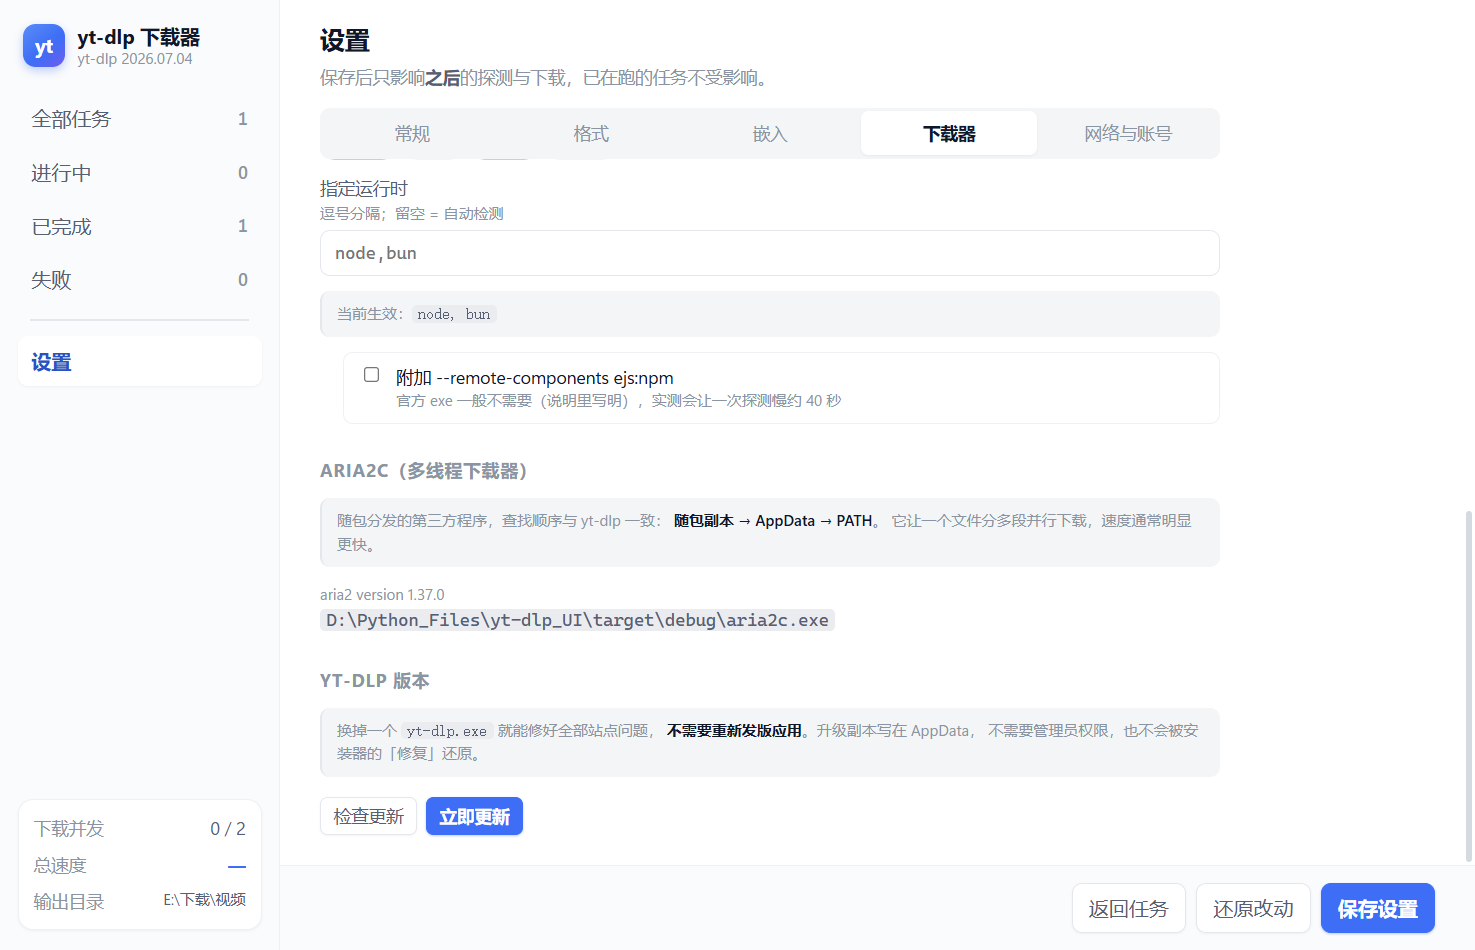
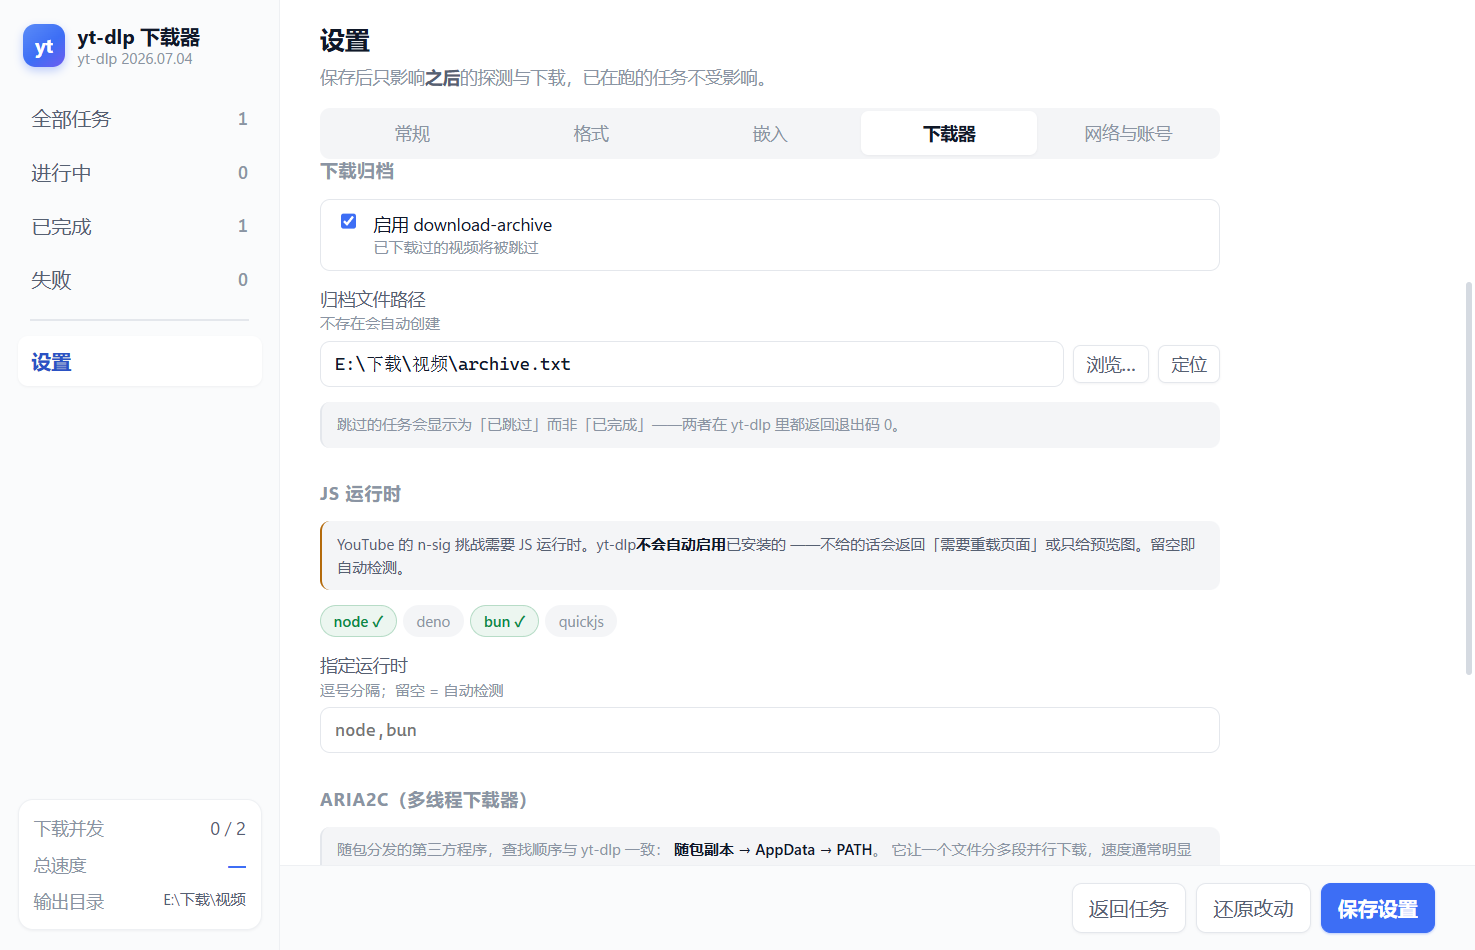
JS 运行时：去掉「当前生效」与「附加 --remote-components」
「当前生效：node」那行是纯冗余——输入框为空时占位符就是检测结果，非空时输入框
本身就是生效值，上面的状态条另有 ✓ 标记，同一件事说了三遍。

「附加 --remote-components ejs:npm」勾选框删掉：随包的官方 exe 自带组件
（帮助文本写明 currently not needed if you are using an official executable），
勾上实测只让一次探测多花 40 秒，没有理由占界面。

界面上保留检测状态条（哪个装了、路径是什么）与「指定运行时」输入框。

`jsRemoteComponents` 从 default_settings / types.ts / mock.ts 移除，所以设置页
不会再冒出这个勾选框；但 runner::js_of() 仍然读它——真遇到官方组件失效时，
改 config.json 写 true 就能开，等于留了个不占界面的逃生门。新增测试同时钉住
「它不在默认设置里」和「手工写进去的值会被保留」两点（merge_defaults 只补键
不删键，前端 deepClone 是整对象 JSON 往返，所以这个手工键能活到保存之后）。

core 140 + shell 65 = 205 测试全绿；vue-tsc 与 vite build 通过。
重录 docs/screenshots/settings-downloader.png。

diff --git a/src/components/SettingsPanel.vue b/src/components/SettingsPanel.vue
@@ -197,20 +197,6 @@ async function testBrowser() {
  */
 const jsInfo = ref<JsRuntimeInfo | null>(null)
 
-/** 实际会传给 yt-dlp 的运行时列表（留空则用检测结果）。 */
-const effectiveJs = computed(() => {
-  // 后端会补齐缺失键（lib.rs normalize_settings），但老配置 / mock 数据
-  // 仍可能没有这个字段——这里不兜住的话 `undefined.trim()` 会让整个面板白屏。
-  const manual = (s.jsRuntime ?? '').trim()
-  if (manual) {
-    return manual
-      .split(',')
-      .map((x) => x.trim())
-      .filter(Boolean)
-  }
-  return jsInfo.value?.detected ?? []
-})
-
 async function loadJsRuntimes() {
   try {
     jsInfo.value = await api.detectJsRuntimes()
@@ -914,16 +900,6 @@ const templateWarning = computed(() => {
               class="mono"
               :placeholder="(jsInfo?.detected ?? []).join(',') || '（未检测到）'"
             />
-          </label>
-          <p class="note">
-            当前生效：<code>{{ effectiveJs.join(', ') || '（无 —— YouTube 可能拿不到真实格式）' }}</code>
-          </p>
-          <label class="check sub">
-            <input v-model="s.jsRemoteComponents" type="checkbox" />
-            <span>
-              附加 --remote-components ejs:npm
-              <em>官方 exe 一般不需要（说明里写明），实测会让一次探测慢约 40 秒</em>
-            </span>
           </label>
 
           <h3>aria2c（多线程下载器）</h3>

diff --git a/src/types.ts b/src/types.ts
@@ -215,8 +215,6 @@ export interface Settings {
    * n-sig 挑战需要它——不给就会返回「需要重载页面」或只给 storyboard。
    */
   jsRuntime: string
-  /** 附加 `--remote-components ejs:npm`。官方 exe 一般不需要，且实测会慢 40 秒。 */
-  jsRemoteComponents: boolean
 }
 
 /** JS 运行时检测结果。 */

diff --git a/src/mock.ts b/src/mock.ts
@@ -242,5 +242,4 @@ export const defaultSettings: Settings = {
   limitRate: '',
   filenameTemplate: '%(title).150B [%(id)s].%(ext)s',
   jsRuntime: '',
-  jsRemoteComponents: false,
 }

diff --git a/src-tauri/src/lib.rs b/src-tauri/src/lib.rs
@@ -59,9 +59,9 @@ fn default_settings() -> Value {
         "filenameTemplate": "%(title).150B [%(id)s].%(ext)s",
         // JS 运行时：留空表示自动检测。**不是可选优化**——
         // 不给的话 YouTube 会返回「需要重载页面」或只给 storyboard。
-        "jsRuntime": "",
-        // --remote-components 一般不需要（官方 exe 自带），且实测慢 40 秒
-        "jsRemoteComponents": false
+        // 注意这里**没有** `jsRemoteComponents`：界面上已经不提供那个开关，
+        // 但 `runner::js_of` 仍然读它，好让需要的人改 config.json 打开。
+        "jsRuntime": ""
     })
 }
 
@@ -941,13 +941,23 @@ mod tests {
     /// 这个测试锁住「缺失键必须被补齐」。
     #[test]
     fn merge_defaults_fills_missing_keys() {
-        let defaults = json!({ "a": "", "jsRuntime": "", "jsRemoteComponents": false });
+        let defaults = json!({ "a": "", "jsRuntime": "" });
         let stored = json!({ "a": "keep" });
         let merged = merge_defaults(defaults, stored);
 
         assert_eq!(merged["a"], json!("keep"));
         assert_eq!(merged["jsRuntime"], json!(""));
-        assert_eq!(merged["jsRemoteComponents"], json!(false));
+    }
+
+    /// 界面不再暴露 `jsRemoteComponents`，但它**仍是从 config.json 可开的逃生门**：
+    /// 一旦它回到 `default_settings`，设置页就会重新显示一个没人改的勾选框。
+    #[test]
+    fn remote_components_is_not_a_default_setting() {
+        let s = normalize_settings(json!({}));
+        assert!(s.get("jsRemoteComponents").is_none(), "实际: {s}");
+        // 手工写进去的值必须被保留，否则逃生门形同虚设。
+        let s = normalize_settings(json!({ "jsRemoteComponents": true }));
+        assert_eq!(s["jsRemoteComponents"], json!(true));
     }
 
     #[test]

diff --git a/src-tauri/src/runner.rs b/src-tauri/src/runner.rs
@@ -549,6 +549,9 @@ pub fn js_of(settings: &Value) -> JsRuntimeOptions {
             .collect()
     };
 
+    // 界面**不再暴露**这个开关（官方 exe 自带组件，实测它只会让一次探测多花 40 秒），
+    // 但保留读取：需要的人可以在 config.json 里写 `"jsRemoteComponents": true`。
+    // 它不在 `default_settings` 里，所以设置页不会因此多出一个勾选框。
     let remote = settings
         .get("jsRemoteComponents")
         .and_then(|v| v.as_bool())

diff --git a/DESIGN.md b/DESIGN.md
@@ -513,9 +513,20 @@ YouTube 的 n-sig / player 挑战要用 JS 解。`--no-js-runtimes` 的帮助文
 探测 `node / deno / bun / quickjs`，`runner::js_of()` 统一给探测与下载两处取值。
 设置为空即自动检测——用户不该为了一个「不给就下不了」的必需参数去手工配置。
 
-**`--remote-components ejs:npm` 默认关闭**：官方可执行文件自带组件，
-帮助文本写着 "currently not needed if you are using an official executable"，
-而实测要多花 40 秒。设置页保留为可选开关。
+设置页只留三样：**候选运行时状态条**（哪个装了、路径是什么，纯诊断）、
+**「指定运行时」输入框**（留空即自动检测，给极少数要手工指定的人）、
+以及上面那段说明。原先还有两样，都已删掉：
+
+| 删掉的 | 为什么 |
+|---|---|
+| **「当前生效：node」那行** | 纯冗余。输入框为空时占位符就是检测结果，非空时输入框本身就是生效值；状态条另有 ✓ 标记 |
+| **「附加 `--remote-components ejs:npm`」勾选框** | 官方 exe 自带组件（帮助文本写明 "currently not needed if you are using an official executable"），勾上只多花 40 秒。没有理由让它在界面上占一格 |
+
+**`--remote-components ejs:npm` 的逃生门**：后端 `js_of()` **仍然读**
+`jsRemoteComponents`，只是它不在 `default_settings()` 里，所以设置页不会再出现
+那个勾选框。真遇到「官方组件失效」的情况，改 `config.json` 写
+`"jsRemoteComponents": true` 即可（`merge_defaults` 只补键不删键，
+前端 `deepClone` 是整对象 JSON 往返，这个手工键会一路带到保存后）。
 
 > **踩坑记录**：接线时新增了 `jsRuntime` / `jsRemoteComponents` 两个设置键，
 > 但老 `config.json` 里没有它们 → 前端 `s.jsRuntime.trim()` 抛 TypeError →
